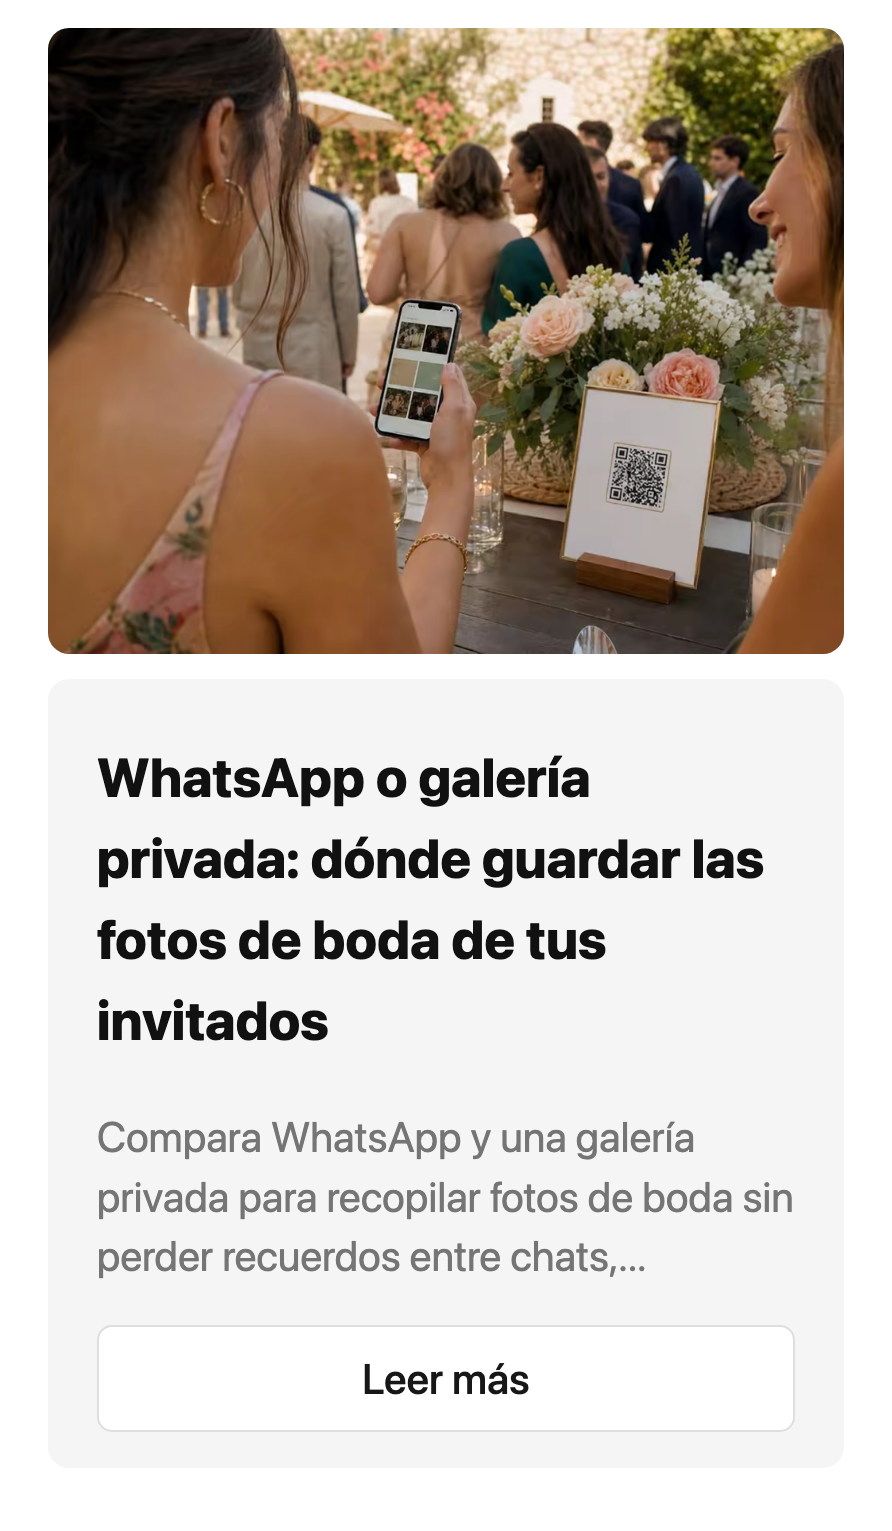
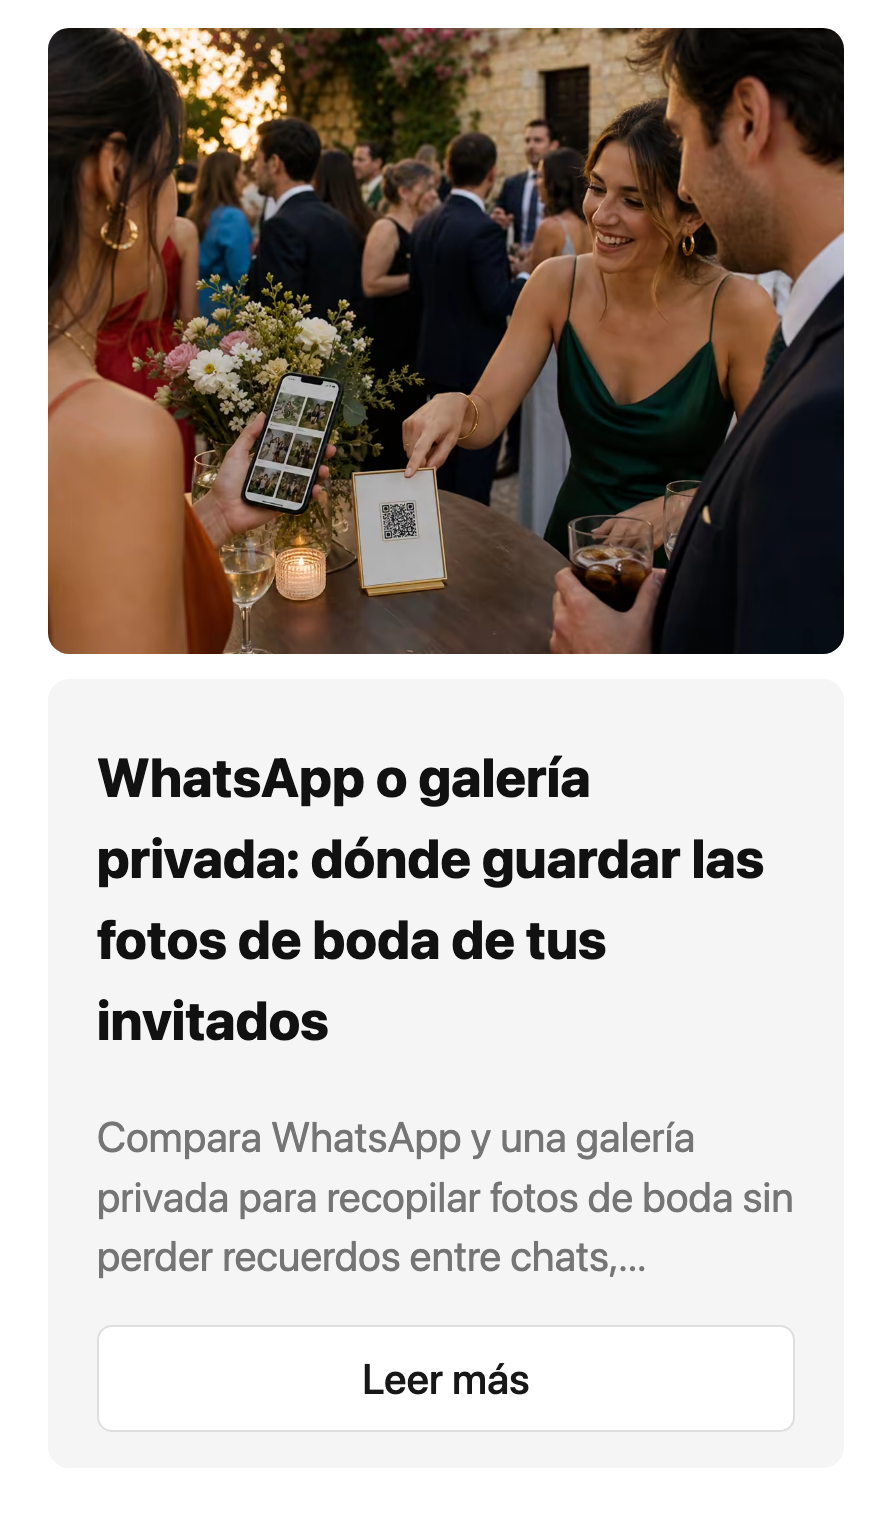
Refresh manual blog post images

diff --git a/posts/daily/2026-05-26-whatsapp-vs-galeria-privada-boda.md b/posts/daily/2026-05-26-whatsapp-vs-galeria-privada-boda.md
@@ -3,7 +3,7 @@ lang: es
 title: "WhatsApp o galería privada: dónde guardar las fotos de boda de tus invitados"
 slug: "whatsapp-vs-galeria-privada-fotos-boda"
 excerpt: "Compara WhatsApp y una galería privada para recopilar fotos de boda sin perder recuerdos entre chats, descargas y mensajes sueltos."
-image: "/blog/2026-05-26-como-funciona-revelao-portada.avif"
+image: "/blog/2026-05-26-whatsapp-vs-galeria-privada-portada.avif"
 tags: ["Bodas", "QR", "Galería privada"]
 publishDate: 2026-05-26
 ---
@@ -24,7 +24,7 @@ Lo que se complica es usarlo como archivo principal. Las fotos llegan en distint
 
 También hay un punto de privacidad. En un grupo, todos ven quién sube qué y la conversación puede desviarse. En una galería privada, la acción es más directa: escanear, subir y listo.
 
-![Invitados de boda subiendo recuerdos desde el móvil](/blog/2026-05-26-como-funciona-revelao-audio-video.avif)
+![Invitados de boda comparando un chat con una galería privada](/blog/2026-05-26-whatsapp-vs-galeria-privada-detalle.avif)
 
 ## Una galería privada reduce la fricción
 
